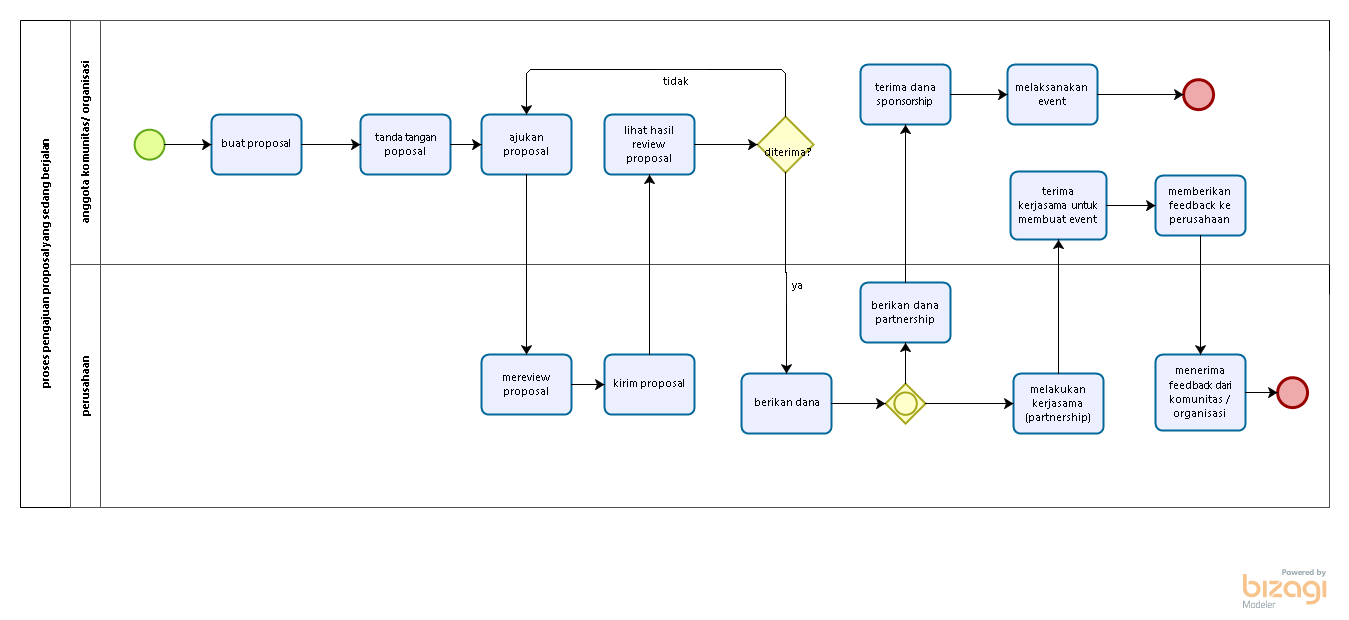
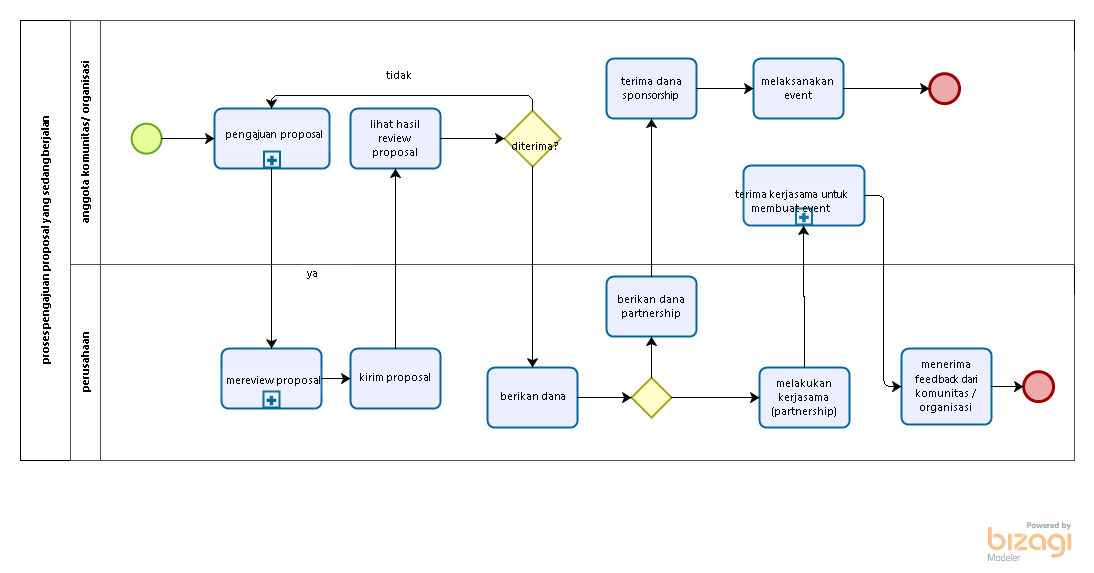
pertolongan alloh

diff --git a/libs/js/json/configuration.json.js b/libs/js/json/configuration.json.js
@@ -1,1 +1,1 @@
-Bizagi.AppModel = {"personalized":false,"userLogoName":"\\libs\\img\\biz-ex-logo.png","bizagiUrl":"http://www.bizagi.com","productName":"Bizagi Modeler","modelName":"proses yang sedang berjalan flowmap","publishDate":"11/21/2016 8:15:57 AM","pages":[{"id":"322f336d-b325-46f2-8501-f4f3df704fcf","name":"Diagram 1","version":"1.0","author":"gentu","image":"files\\diagrams\\Diagram_1.png","isSubprocessPage":false,"elements":[{"id":"40b683a0-08f1-4217-bc1a-9eebf7dd4142","name":"proses pengajuan proposal yang sedang berjalan","elementImage":"files\\bpmnElements\\Participant.png","imageBounds":{"points":[{"x":20.0,"y":20.0}],"radius":0.0,"height":487.0,"width":50.0,"shape":"rect"},"elementType":"Participant","properties":[],"pageElements":[{"id":"e6568b3b-0357-40e6-8ce8-fc7a185eb0f9","name":"Event","elementImage":"files\\bpmnElements\\NoneStart.png","imageBounds":{"points":[{"x":134.0,"y":129.0}],"radius":15.0,"height":30.0,"width":30.0,"shape":"circle"},"elementType":"NoneStart"},{"id":"cdd90d3d-c96d-4b7c-8ec0-3583b2057f7d","name":"buat proposal","elementImage":"files\\bpmnElements\\AbstractTask.png","imageBounds":{"points":[{"x":211.0,"y":114.0}],"radius":0.0,"height":60.0,"width":90.0,"shape":"rect"},"elementType":"AbstractTask","properties":[]},{"id":"3ac74079-3628-44f4-8751-62f190540824","name":"tanda tangan poposal","elementImage":"files\\bpmnElements\\AbstractTask.png","imageBounds":{"points":[{"x":360.0,"y":114.0}],"radius":0.0,"height":60.0,"width":90.0,"shape":"rect"},"elementType":"AbstractTask","properties":[]},{"id":"b869ea7b-832a-4753-90ac-cd1284446ae5","name":"ajukan proposal","elementImage":"files\\bpmnElements\\AbstractTask.png","imageBounds":{"points":[{"x":481.0,"y":114.0}],"radius":0.0,"height":60.0,"width":90.0,"shape":"rect"},"elementType":"AbstractTask","properties":[]},{"id":"e72494d4-b69f-47cb-a1af-c040d99b0027","name":"mereview proposal","elementImage":"files\\bpmnElements\\AbstractTask.png","imageBounds":{"points":[{"x":481.0,"y":354.0}],"radius":0.0,"height":60.0,"width":90.0,"shape":"rect"},"elementType":"AbstractTask","properties":[]},{"id":"ac04c7cd-5fe7-4cd3-bc44-7badc2857cca","name":"kirim proposal","elementImage":"files\\bpmnElements\\AbstractTask.png","imageBounds":{"points":[{"x":604.0,"y":354.0}],"radius":0.0,"height":60.0,"width":90.0,"shape":"rect"},"elementType":"AbstractTask","properties":[]},{"id":"882db5a2-a2c3-4d09-9e99-81c1143630dd","name":"lihat hasil review proposal","elementImage":"files\\bpmnElements\\AbstractTask.png","imageBounds":{"points":[{"x":604.0,"y":114.0}],"radius":0.0,"height":60.0,"width":90.0,"shape":"rect"},"elementType":"AbstractTask","properties":[]},{"id":"e8d63b87-1134-4a82-bb93-53800b5bbd2a","name":"diterima?","elementImage":"files\\bpmnElements\\ExclusiveGateway.png","imageBounds":{"points":[{"x":757.0,"y":116.0}],"radius":0.0,"height":56.0,"width":56.0,"shape":"poly"},"elementType":"ExclusiveGateway","properties":[],"pageElements":[{"name":"tidak","elementType":"SequenceFlow","properties":[]},{"name":"ya","elementType":"SequenceFlow","properties":[]}]},{"id":"73fc60c4-a83b-40cc-a7b0-bd4ad6add1de","name":"berikan dana","elementImage":"files\\bpmnElements\\AbstractTask.png","imageBounds":{"points":[{"x":741.0,"y":373.0}],"radius":0.0,"height":60.0,"width":90.0,"shape":"rect"},"elementType":"AbstractTask","properties":[]},{"id":"2933b6db-02ab-4183-9d92-10bed7ea5510","name":"Gateway","elementImage":"files\\bpmnElements\\InclusiveGateway.png","imageBounds":{"points":[{"x":885.0,"y":383.0}],"radius":0.0,"height":40.0,"width":40.0,"shape":"poly"},"elementType":"InclusiveGateway","properties":[],"pageElements":[{"name":"berikan dana  partnership","elementType":"SequenceFlow","properties":[]},{"name":"melakukan kerjasama (partnership)","elementType":"SequenceFlow","properties":[]}]},{"id":"e1f5691f-a0b7-4717-8eec-6075f77d1585","name":"melakukan kerjasama (partnership)","elementImage":"files\\bpmnElements\\AbstractTask.png","imageBounds":{"points":[{"x":1013.0,"y":373.0}],"radius":0.0,"height":60.0,"width":90.0,"shape":"rect"},"elementType":"AbstractTask","properties":[]},{"id":"b138e8ff-55d3-4f81-8b2f-5aa19bbb983c","name":"terima kerjasama  untuk membuat event","elementImage":"files\\bpmnElements\\AbstractTask.png","imageBounds":{"points":[{"x":1010.0,"y":171.0}],"radius":0.0,"height":68.0,"width":96.0,"shape":"rect"},"elementType":"AbstractTask","properties":[]},{"id":"d88d1482-3043-410a-8f4f-fce0379b395c","name":"memberikan feedback ke perusahaan","elementImage":"files\\bpmnElements\\AbstractTask.png","imageBounds":{"points":[{"x":1155.0,"y":175.0}],"radius":0.0,"height":60.0,"width":90.0,"shape":"rect"},"elementType":"AbstractTask","properties":[]},{"id":"a1c17bfe-50da-4ea1-b240-64f9631485eb","name":"menerima feedback dari komunitas / organisasi","elementImage":"files\\bpmnElements\\AbstractTask.png","imageBounds":{"points":[{"x":1155.0,"y":354.0}],"radius":0.0,"height":76.0,"width":90.0,"shape":"rect"},"elementType":"AbstractTask","properties":[]},{"id":"67cbc06b-db15-488d-944b-0d4f9109d733","name":"Event","elementImage":"files\\bpmnElements\\NoneEnd.png","imageBounds":{"points":[{"x":1277.0,"y":377.0}],"radius":15.0,"height":30.0,"width":30.0,"shape":"circle"},"elementType":"NoneEnd"},{"id":"adfd11b7-3ed4-4463-b5c2-f646c60a5927","name":"berikan dana  partnership","elementImage":"files\\bpmnElements\\AbstractTask.png","imageBounds":{"points":[{"x":860.0,"y":282.0}],"radius":0.0,"height":60.0,"width":90.0,"shape":"rect"},"elementType":"AbstractTask","properties":[]},{"id":"0daefd53-a19d-4b47-b7e8-88bbf2192e7c","name":"terima dana sponsorship","elementImage":"files\\bpmnElements\\AbstractTask.png","imageBounds":{"points":[{"x":860.0,"y":64.0}],"radius":0.0,"height":60.0,"width":90.0,"shape":"rect"},"elementType":"AbstractTask","properties":[]},{"id":"5fd49581-7363-42ec-a835-944fc4ddc65d","name":"melaksanakan event","elementImage":"files\\bpmnElements\\AbstractTask.png","imageBounds":{"points":[{"x":1007.0,"y":64.0}],"radius":0.0,"height":60.0,"width":90.0,"shape":"rect"},"elementType":"AbstractTask","properties":[]},{"id":"4925e2a7-c088-4c95-9d94-abdf6008bdf3","name":"Event","elementImage":"files\\bpmnElements\\NoneEnd.png","imageBounds":{"points":[{"x":1183.0,"y":79.0}],"radius":15.0,"height":30.0,"width":30.0,"shape":"circle"},"elementType":"NoneEnd"},{"id":"920d8717-3484-4c11-b90d-5a273d67c5af","name":"anggota komunitas/ organisasi","elementImage":"files\\bpmnElements\\Lane.png","imageBounds":{"points":[{"x":70.0,"y":20.0}],"radius":0.0,"height":244.0,"width":30.0,"shape":"rect"},"elementType":"Lane"},{"id":"0fb7bee9-8259-42ac-8e35-3521c9a128fb","name":"perusahaan","elementImage":"files\\bpmnElements\\Lane.png","imageBounds":{"points":[{"x":70.0,"y":264.0}],"radius":0.0,"height":243.0,"width":30.0,"shape":"rect"},"elementType":"Lane"}]}]}],"texts":{"tableOfContents":"Table of Contents","pageNumber":"Page","pageNumberLabelOf":"of","version":"Version","author":"Author","description":"Description","mainPool":"Main Process","mainPoolDescription":"Main Process Description","processDiagrams":"Process Diagrams","processElements":"Process Elements","elements":"Process Elements","defaultElementName":"Element","performers":"Performers","connectors":"Connectors","connector":"Connector","home":"Home","search":"Search","goToParentProcess":"<< Go to Parent Process","visitBizagi":"Visit bizagi.com","contains":"Contains {0} Sub-Processes","showAll":"Show all","fullScreen":"Full screen","zoomIn":"Zoom In","zoomOut":"Zoom Out","close":"Close","menu":"Menu: ","errorPage":"Error when visualizing page","process":"Process","subProcess":"Published Sub-Processes","contain":"Contains","checkAttributes":"Check attributes","checkOverview":"Check overview","unavailableResource":"Unavailable resource","localResource":"Resource can be accessed locally","performer":"Performer","linktoimage":"Link to Image","presentationAction":"Presentation Actions","searchGlobal":"Search all","searchLocal":"Search in this process","searchResults":"No Results Found","titlePage":"Start","emptyElement":"This element has not yet been documented","unsupported":"Your browser does not support content displayed by this page. <br> We recommend you upgrading your browser.","details":"Details","expand":"Expand","mainPoolProperties":"Main Process properties","cannotVisualize":"The page cannot be displayed","resourceNotFound":"The requested resource was not found:","applyTheme":"Applying new theme"},"searchMap":[{"containerId":"322f336d-b325-46f2-8501-f4f3df704fcf","containerName":"Diagram 1","isSubprocess":false,"elements":[{"id":"40b683a0-08f1-4217-bc1a-9eebf7dd4142","value":"proses pengajuan proposal yang sedang berjalan"},{"id":"920d8717-3484-4c11-b90d-5a273d67c5af","value":"anggota komunitas/ organisasi"},{"id":"0fb7bee9-8259-42ac-8e35-3521c9a128fb","value":"perusahaan"},{"id":"e6568b3b-0357-40e6-8ce8-fc7a185eb0f9","value":""},{"id":"cdd90d3d-c96d-4b7c-8ec0-3583b2057f7d","value":"buat proposal"},{"id":"3ac74079-3628-44f4-8751-62f190540824","value":"tanda tangan poposal"},{"id":"b869ea7b-832a-4753-90ac-cd1284446ae5","value":"ajukan proposal"},{"id":"e72494d4-b69f-47cb-a1af-c040d99b0027","value":"mereview proposal"},{"id":"ac04c7cd-5fe7-4cd3-bc44-7badc2857cca","value":"kirim proposal"},{"id":"882db5a2-a2c3-4d09-9e99-81c1143630dd","value":"lihat hasil review proposal"},{"id":"e8d63b87-1134-4a82-bb93-53800b5bbd2a","value":"diterima?"},{"id":"73fc60c4-a83b-40cc-a7b0-bd4ad6add1de","value":"berikan dana"},{"id":"2933b6db-02ab-4183-9d92-10bed7ea5510","value":""},{"id":"adfd11b7-3ed4-4463-b5c2-f646c60a5927","value":"berikan dana  partnership"},{"id":"0daefd53-a19d-4b47-b7e8-88bbf2192e7c","value":"terima dana sponsorship"},{"id":"5fd49581-7363-42ec-a835-944fc4ddc65d","value":"melaksanakan event"},{"id":"4925e2a7-c088-4c95-9d94-abdf6008bdf3","value":""},{"id":"e1f5691f-a0b7-4717-8eec-6075f77d1585","value":"melakukan kerjasama (partnership)"},{"id":"b138e8ff-55d3-4f81-8b2f-5aa19bbb983c","value":"terima kerjasama  untuk membuat event"},{"id":"d88d1482-3043-410a-8f4f-fce0379b395c","value":"memberikan feedback ke perusahaan"},{"id":"a1c17bfe-50da-4ea1-b240-64f9631485eb","value":"menerima feedback dari komunitas / organisasi"},{"id":"67cbc06b-db15-488d-944b-0d4f9109d733","value":""}]}]}
+Bizagi.AppModel = {"personalized":false,"userLogoName":"\\libs\\img\\biz-ex-logo.png","bizagiUrl":"http://www.bizagi.com","productName":"Bizagi Modeler","modelName":"proses yang sedang berjalan flowmap","publishDate":"11/25/2016 10:16:42 AM","pages":[{"id":"322f336d-b325-46f2-8501-f4f3df704fcf","name":"Diagram 1","version":"1.0","author":"gentu","image":"files\\diagrams\\Diagram_1.png","isSubprocessPage":false,"elements":[{"id":"40b683a0-08f1-4217-bc1a-9eebf7dd4142","name":"proses pengajuan proposal yang sedang berjalan","elementImage":"files\\bpmnElements\\Participant.png","imageBounds":{"points":[{"x":20.0,"y":20.0}],"radius":0.0,"height":440.0,"width":50.0,"shape":"rect"},"elementType":"Participant","properties":[],"pageElements":[{"id":"e6568b3b-0357-40e6-8ce8-fc7a185eb0f9","name":"Event","elementImage":"files\\bpmnElements\\NoneStart.png","imageBounds":{"points":[{"x":131.0,"y":123.0}],"radius":15.0,"height":30.0,"width":30.0,"shape":"circle"},"elementType":"NoneStart"},{"id":"b869ea7b-832a-4753-90ac-cd1284446ae5","name":"pengajuan \rproposal","elementImage":"files\\bpmnElements\\SubProcess.png","imageBounds":{"points":[{"x":214.0,"y":108.0}],"radius":0.0,"height":60.0,"width":115.0,"shape":"rect"},"elementType":"SubProcess","properties":[]},{"id":"e72494d4-b69f-47cb-a1af-c040d99b0027","name":"  mereview proposal","elementImage":"files\\bpmnElements\\SubProcess.png","imageBounds":{"points":[{"x":221.0,"y":348.0}],"radius":0.0,"height":60.0,"width":100.0,"shape":"rect"},"elementType":"SubProcess","properties":[]},{"id":"ac04c7cd-5fe7-4cd3-bc44-7badc2857cca","name":"kirim proposal","elementImage":"files\\bpmnElements\\AbstractTask.png","imageBounds":{"points":[{"x":350.0,"y":348.0}],"radius":0.0,"height":60.0,"width":90.0,"shape":"rect"},"elementType":"AbstractTask","properties":[]},{"id":"882db5a2-a2c3-4d09-9e99-81c1143630dd","name":"lihat hasil review proposal","elementImage":"files\\bpmnElements\\AbstractTask.png","imageBounds":{"points":[{"x":350.0,"y":108.0}],"radius":0.0,"height":60.0,"width":90.0,"shape":"rect"},"elementType":"AbstractTask","properties":[]},{"id":"e8d63b87-1134-4a82-bb93-53800b5bbd2a","name":"diterima?","elementImage":"files\\bpmnElements\\ExclusiveGateway.png","imageBounds":{"points":[{"x":504.0,"y":110.0}],"radius":0.0,"height":56.0,"width":56.0,"shape":"poly"},"elementType":"ExclusiveGateway","properties":[],"pageElements":[{"name":"tidak","elementType":"SequenceFlow","properties":[]},{"name":"ya","elementType":"SequenceFlow","properties":[]}]},{"id":"73fc60c4-a83b-40cc-a7b0-bd4ad6add1de","name":"berikan dana","elementImage":"files\\bpmnElements\\AbstractTask.png","imageBounds":{"points":[{"x":487.0,"y":367.0}],"radius":0.0,"height":60.0,"width":90.0,"shape":"rect"},"elementType":"AbstractTask","properties":[]},{"id":"2933b6db-02ab-4183-9d92-10bed7ea5510","name":"Gateway","elementImage":"files\\bpmnElements\\ExclusiveGateway.png","imageBounds":{"points":[{"x":631.0,"y":377.0}],"radius":0.0,"height":40.0,"width":40.0,"shape":"poly"},"elementType":"ExclusiveGateway","properties":[],"pageElements":[{"name":"berikan dana  partnership","elementType":"SequenceFlow","properties":[]},{"name":"melakukan kerjasama (partnership)","elementType":"SequenceFlow","properties":[]}]},{"id":"e1f5691f-a0b7-4717-8eec-6075f77d1585","name":"melakukan kerjasama (partnership)","elementImage":"files\\bpmnElements\\AbstractTask.png","imageBounds":{"points":[{"x":759.0,"y":367.0}],"radius":0.0,"height":60.0,"width":90.0,"shape":"rect"},"elementType":"AbstractTask","properties":[]},{"id":"b138e8ff-55d3-4f81-8b2f-5aa19bbb983c","name":"terima kerjasama  untuk membuat event","elementImage":"files\\bpmnElements\\SubProcess.png","imageBounds":{"points":[{"x":743.0,"y":165.0}],"radius":0.0,"height":60.0,"width":121.0,"shape":"rect"},"elementType":"SubProcess","properties":[]},{"id":"a1c17bfe-50da-4ea1-b240-64f9631485eb","name":"menerima feedback dari komunitas / organisasi","elementImage":"files\\bpmnElements\\AbstractTask.png","imageBounds":{"points":[{"x":901.0,"y":348.0}],"radius":0.0,"height":76.0,"width":90.0,"shape":"rect"},"elementType":"AbstractTask","properties":[]},{"id":"67cbc06b-db15-488d-944b-0d4f9109d733","name":"Event","elementImage":"files\\bpmnElements\\NoneEnd.png","imageBounds":{"points":[{"x":1023.0,"y":371.0}],"radius":15.0,"height":30.0,"width":30.0,"shape":"circle"},"elementType":"NoneEnd"},{"id":"adfd11b7-3ed4-4463-b5c2-f646c60a5927","name":"berikan dana  partnership","elementImage":"files\\bpmnElements\\AbstractTask.png","imageBounds":{"points":[{"x":606.0,"y":276.0}],"radius":0.0,"height":60.0,"width":90.0,"shape":"rect"},"elementType":"AbstractTask","properties":[]},{"id":"0daefd53-a19d-4b47-b7e8-88bbf2192e7c","name":"terima dana sponsorship","elementImage":"files\\bpmnElements\\AbstractTask.png","imageBounds":{"points":[{"x":606.0,"y":58.0}],"radius":0.0,"height":60.0,"width":90.0,"shape":"rect"},"elementType":"AbstractTask","properties":[]},{"id":"5fd49581-7363-42ec-a835-944fc4ddc65d","name":"melaksanakan event","elementImage":"files\\bpmnElements\\AbstractTask.png","imageBounds":{"points":[{"x":753.0,"y":58.0}],"radius":0.0,"height":60.0,"width":90.0,"shape":"rect"},"elementType":"AbstractTask","properties":[]},{"id":"4925e2a7-c088-4c95-9d94-abdf6008bdf3","name":"Event","elementImage":"files\\bpmnElements\\NoneEnd.png","imageBounds":{"points":[{"x":929.0,"y":73.0}],"radius":15.0,"height":30.0,"width":30.0,"shape":"circle"},"elementType":"NoneEnd"},{"id":"920d8717-3484-4c11-b90d-5a273d67c5af","name":"anggota komunitas/ organisasi","elementImage":"files\\bpmnElements\\Lane.png","imageBounds":{"points":[{"x":70.0,"y":20.0}],"radius":0.0,"height":244.0,"width":30.0,"shape":"rect"},"elementType":"Lane"},{"id":"0fb7bee9-8259-42ac-8e35-3521c9a128fb","name":"perusahaan","elementImage":"files\\bpmnElements\\Lane.png","imageBounds":{"points":[{"x":70.0,"y":264.0}],"radius":0.0,"height":196.0,"width":30.0,"shape":"rect"},"elementType":"Lane"}]}],"subPages":[]}],"texts":{"tableOfContents":"Table of Contents","pageNumber":"Page","pageNumberLabelOf":"of","version":"Version","author":"Author","description":"Description","mainPool":"Main Process","mainPoolDescription":"Main Process Description","processDiagrams":"Process Diagrams","processElements":"Process Elements","elements":"Process Elements","defaultElementName":"Element","performers":"Performers","connectors":"Connectors","connector":"Connector","home":"Home","search":"Search","goToParentProcess":"<< Go to Parent Process","visitBizagi":"Visit bizagi.com","contains":"Contains {0} Sub-Processes","showAll":"Show all","fullScreen":"Full screen","zoomIn":"Zoom In","zoomOut":"Zoom Out","close":"Close","menu":"Menu: ","errorPage":"Error when visualizing page","process":"Process","subProcess":"Published Sub-Processes","contain":"Contains","checkAttributes":"Check attributes","checkOverview":"Check overview","unavailableResource":"Unavailable resource","localResource":"Resource can be accessed locally","performer":"Performer","linktoimage":"Link to Image","presentationAction":"Presentation Actions","searchGlobal":"Search all","searchLocal":"Search in this process","searchResults":"No Results Found","titlePage":"Start","emptyElement":"This element has not yet been documented","unsupported":"Your browser does not support content displayed by this page. <br> We recommend you upgrading your browser.","details":"Details","expand":"Expand","mainPoolProperties":"Main Process properties","cannotVisualize":"The page cannot be displayed","resourceNotFound":"The requested resource was not found:","applyTheme":"Applying new theme"},"searchMap":[{"containerId":"322f336d-b325-46f2-8501-f4f3df704fcf","containerName":"Diagram 1","isSubprocess":false,"elements":[{"id":"40b683a0-08f1-4217-bc1a-9eebf7dd4142","value":"proses pengajuan proposal yang sedang berjalan"},{"id":"920d8717-3484-4c11-b90d-5a273d67c5af","value":"anggota komunitas/ organisasi"},{"id":"0fb7bee9-8259-42ac-8e35-3521c9a128fb","value":"perusahaan"},{"id":"e6568b3b-0357-40e6-8ce8-fc7a185eb0f9","value":""},{"id":"ac04c7cd-5fe7-4cd3-bc44-7badc2857cca","value":"kirim proposal"},{"id":"882db5a2-a2c3-4d09-9e99-81c1143630dd","value":"lihat hasil review proposal"},{"id":"e8d63b87-1134-4a82-bb93-53800b5bbd2a","value":"diterima?"},{"id":"73fc60c4-a83b-40cc-a7b0-bd4ad6add1de","value":"berikan dana"},{"id":"adfd11b7-3ed4-4463-b5c2-f646c60a5927","value":"berikan dana  partnership"},{"id":"0daefd53-a19d-4b47-b7e8-88bbf2192e7c","value":"terima dana sponsorship"},{"id":"5fd49581-7363-42ec-a835-944fc4ddc65d","value":"melaksanakan event"},{"id":"4925e2a7-c088-4c95-9d94-abdf6008bdf3","value":""},{"id":"e1f5691f-a0b7-4717-8eec-6075f77d1585","value":"melakukan kerjasama (partnership)"},{"id":"a1c17bfe-50da-4ea1-b240-64f9631485eb","value":"menerima feedback dari komunitas / organisasi"},{"id":"67cbc06b-db15-488d-944b-0d4f9109d733","value":""},{"id":"b869ea7b-832a-4753-90ac-cd1284446ae5","value":"pengajuan \rproposal"},{"id":"e72494d4-b69f-47cb-a1af-c040d99b0027","value":"  mereview proposal"},{"id":"b138e8ff-55d3-4f81-8b2f-5aa19bbb983c","value":"terima kerjasama  untuk membuat event"},{"id":"2933b6db-02ab-4183-9d92-10bed7ea5510","value":""}]},{"containerId":"b869ea7b-832a-4753-90ac-cd1284446ae5","containerName":"pengajuan \rproposal","isSubprocess":true,"elements":[{"id":"32dc34b6-ff07-46e7-9f42-f7fd49433b65","value":""},{"id":"e438ce23-b5a1-4fea-86f4-247f61295669","value":"buat proposal"},{"id":"e89ec1aa-ed70-4efe-9ae9-5dd967e1c2d2","value":"disetujui?"},{"id":"04363a92-5a6c-4979-ba3c-530dc231b659","value":"tanda  tangan"},{"id":"ed1eea31-bdc6-4f51-840c-cbe9b81395f6","value":"ajukan proposal"},{"id":"c23a00a3-e26d-4d62-b791-a56a9f865b4a","value":""},{"id":"43edd9e0-75b4-4287-9ce3-64890e3bbc4f","value":"revisi "},{"id":"b2f19ef4-8287-4572-8a87-a85b7b5888cf","value":"ajukan persetujuan proposal"}]},{"containerId":"e72494d4-b69f-47cb-a1af-c040d99b0027","containerName":"  mereview proposal","isSubprocess":true,"elements":[{"id":"0b3cf454-8aec-4947-b1c0-33e07f985ba7","value":""},{"id":"13680cd3-240d-49fd-9494-287de57eadc3","value":"terima proposal"},{"id":"28b46efe-5aab-4ff7-9748-1af9c6d2de15","value":"penentuan proposal"},{"id":"20e59ec4-4105-480f-b80f-991f5219c7cc","value":"kirim ke komunitas"},{"id":"354f572e-6ba7-4982-a892-ffd4737a54b7","value":""},{"id":"5548d8e4-f140-4c6a-8fef-29d442f65302","value":""},{"id":"1238c09c-846b-4b81-8348-35f37405b46d","value":""},{"id":"8e0272db-3dc7-4c15-b8d7-86e341b31a98","value":""},{"id":"523d8a74-6b07-45ff-9d66-0b5b4cc08417","value":"partnership"},{"id":"22e73f98-ba64-42cd-a870-44f0aff01f84","value":"dana"},{"id":"fd5ca03f-b8f4-4b04-a7e7-6193f1464aa0","value":""},{"id":"e445d108-42f4-4da5-9426-4cdee5bf7b98","value":"tentukan  jenis bantuan"}]},{"containerId":"b138e8ff-55d3-4f81-8b2f-5aa19bbb983c","containerName":"terima kerjasama  untuk membuat event","isSubprocess":true,"elements":[{"id":"719af3c4-933b-41a7-a402-53ba73d722f9","value":""},{"id":"f81f9f41-de14-4b9e-ac6c-40e5d6e5ad13","value":"terima kerjasama dengan "},{"id":"17dc2b63-aaef-4c4e-ab03-d17aa7db5500","value":"lakukaan kerjasama  ketika event"},{"id":"07f063fb-14cb-4dde-93ee-825a244307f3","value":"memberikan feedback ke perusahaan"},{"id":"9f6bf8a9-c0eb-4b31-ae5e-55c9d8ae5aa2","value":""}]}]}
